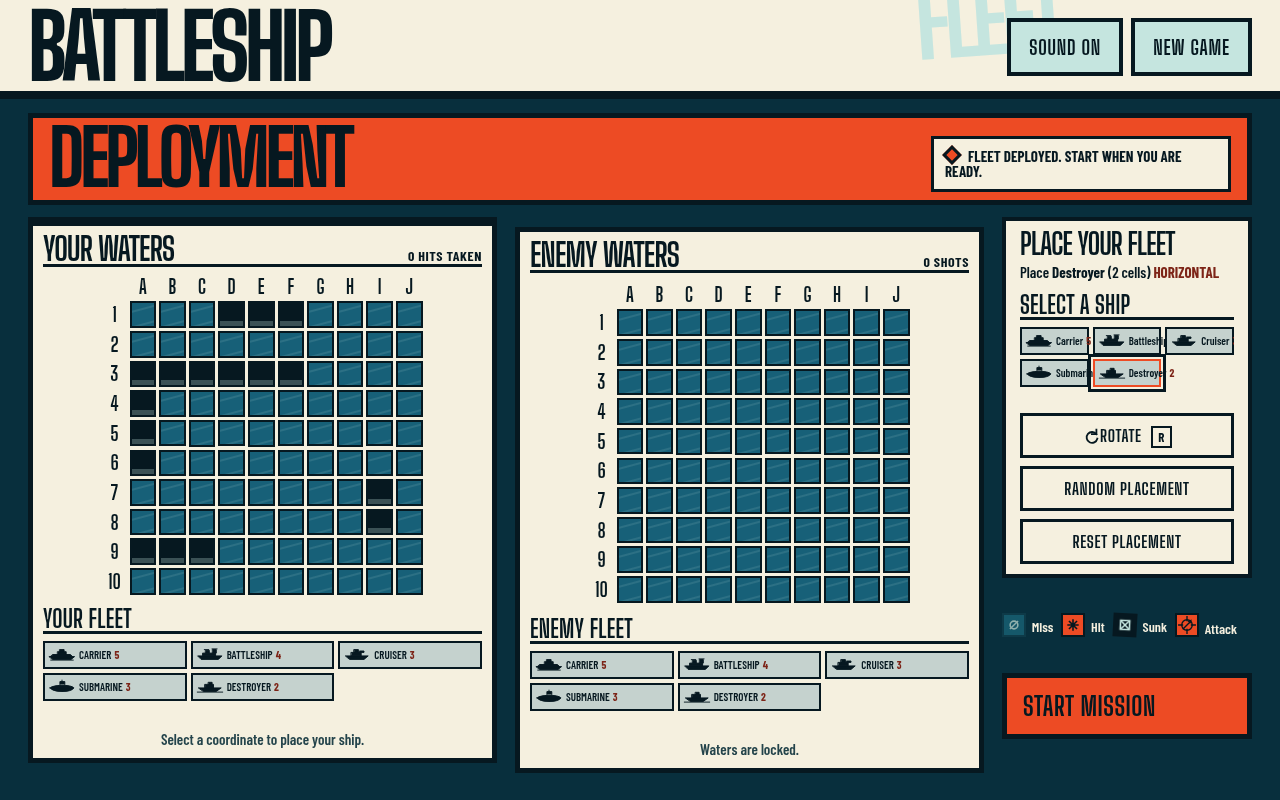
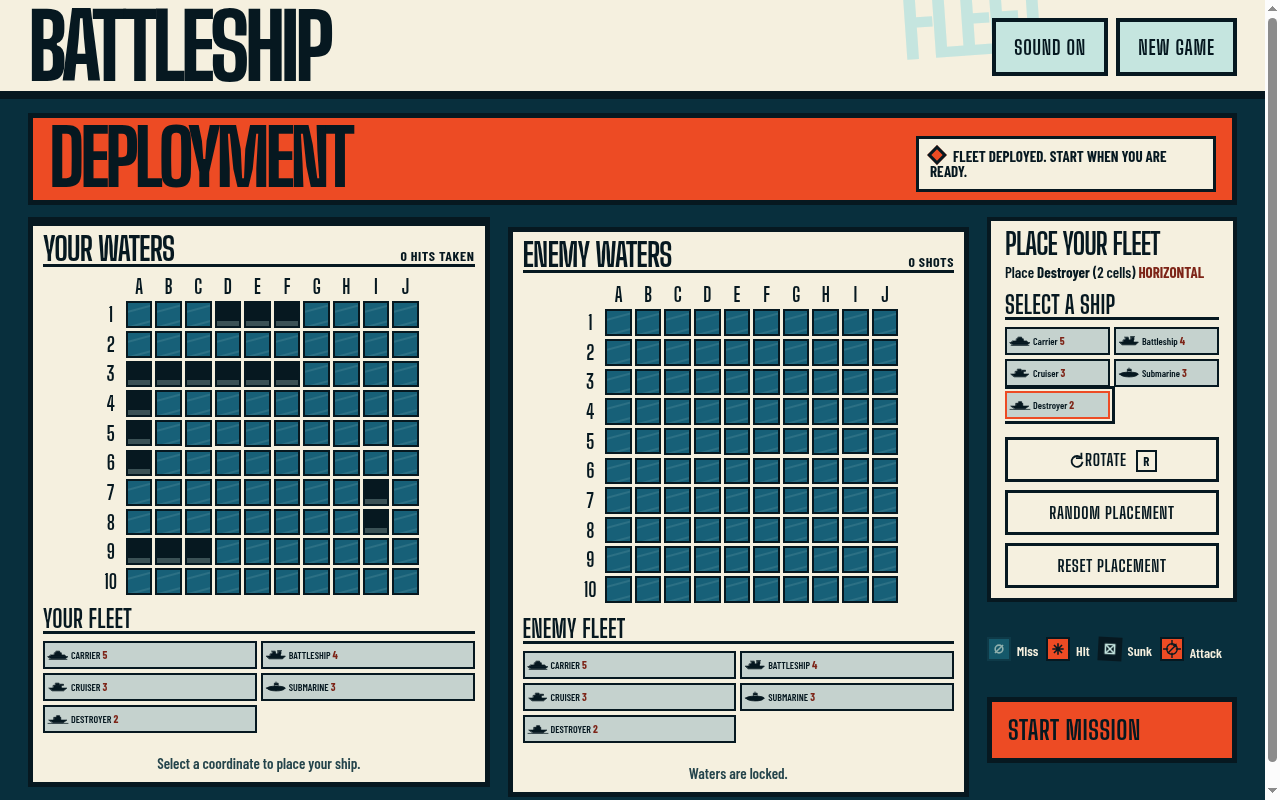
Fit placement fleet selector rail

Changed region(s): [[0.0, 0.0, 1.0, 1.0]]

diff --git a/src/styles.css b/src/styles.css
@@ -394,6 +394,26 @@ kbd {
   margin: 0;
 }
 
+.placement-content .fleet-status {
+  height: 132px;
+}
+
+.placement-content .fleet-list {
+  grid-template-columns: repeat(2, minmax(0, 1fr));
+}
+
+.placement-content .fleet-list > span,
+.placement-content .fleet-list > button {
+  gap: 2px;
+  padding: 3px 2px;
+  font-size: 10px;
+}
+
+.placement-content .fleet-list .ship-icon {
+  width: 22px;
+  height: 12px;
+}
+
 .placement-content .control-actions {
   justify-content: stretch;
   margin-top: 12px;
